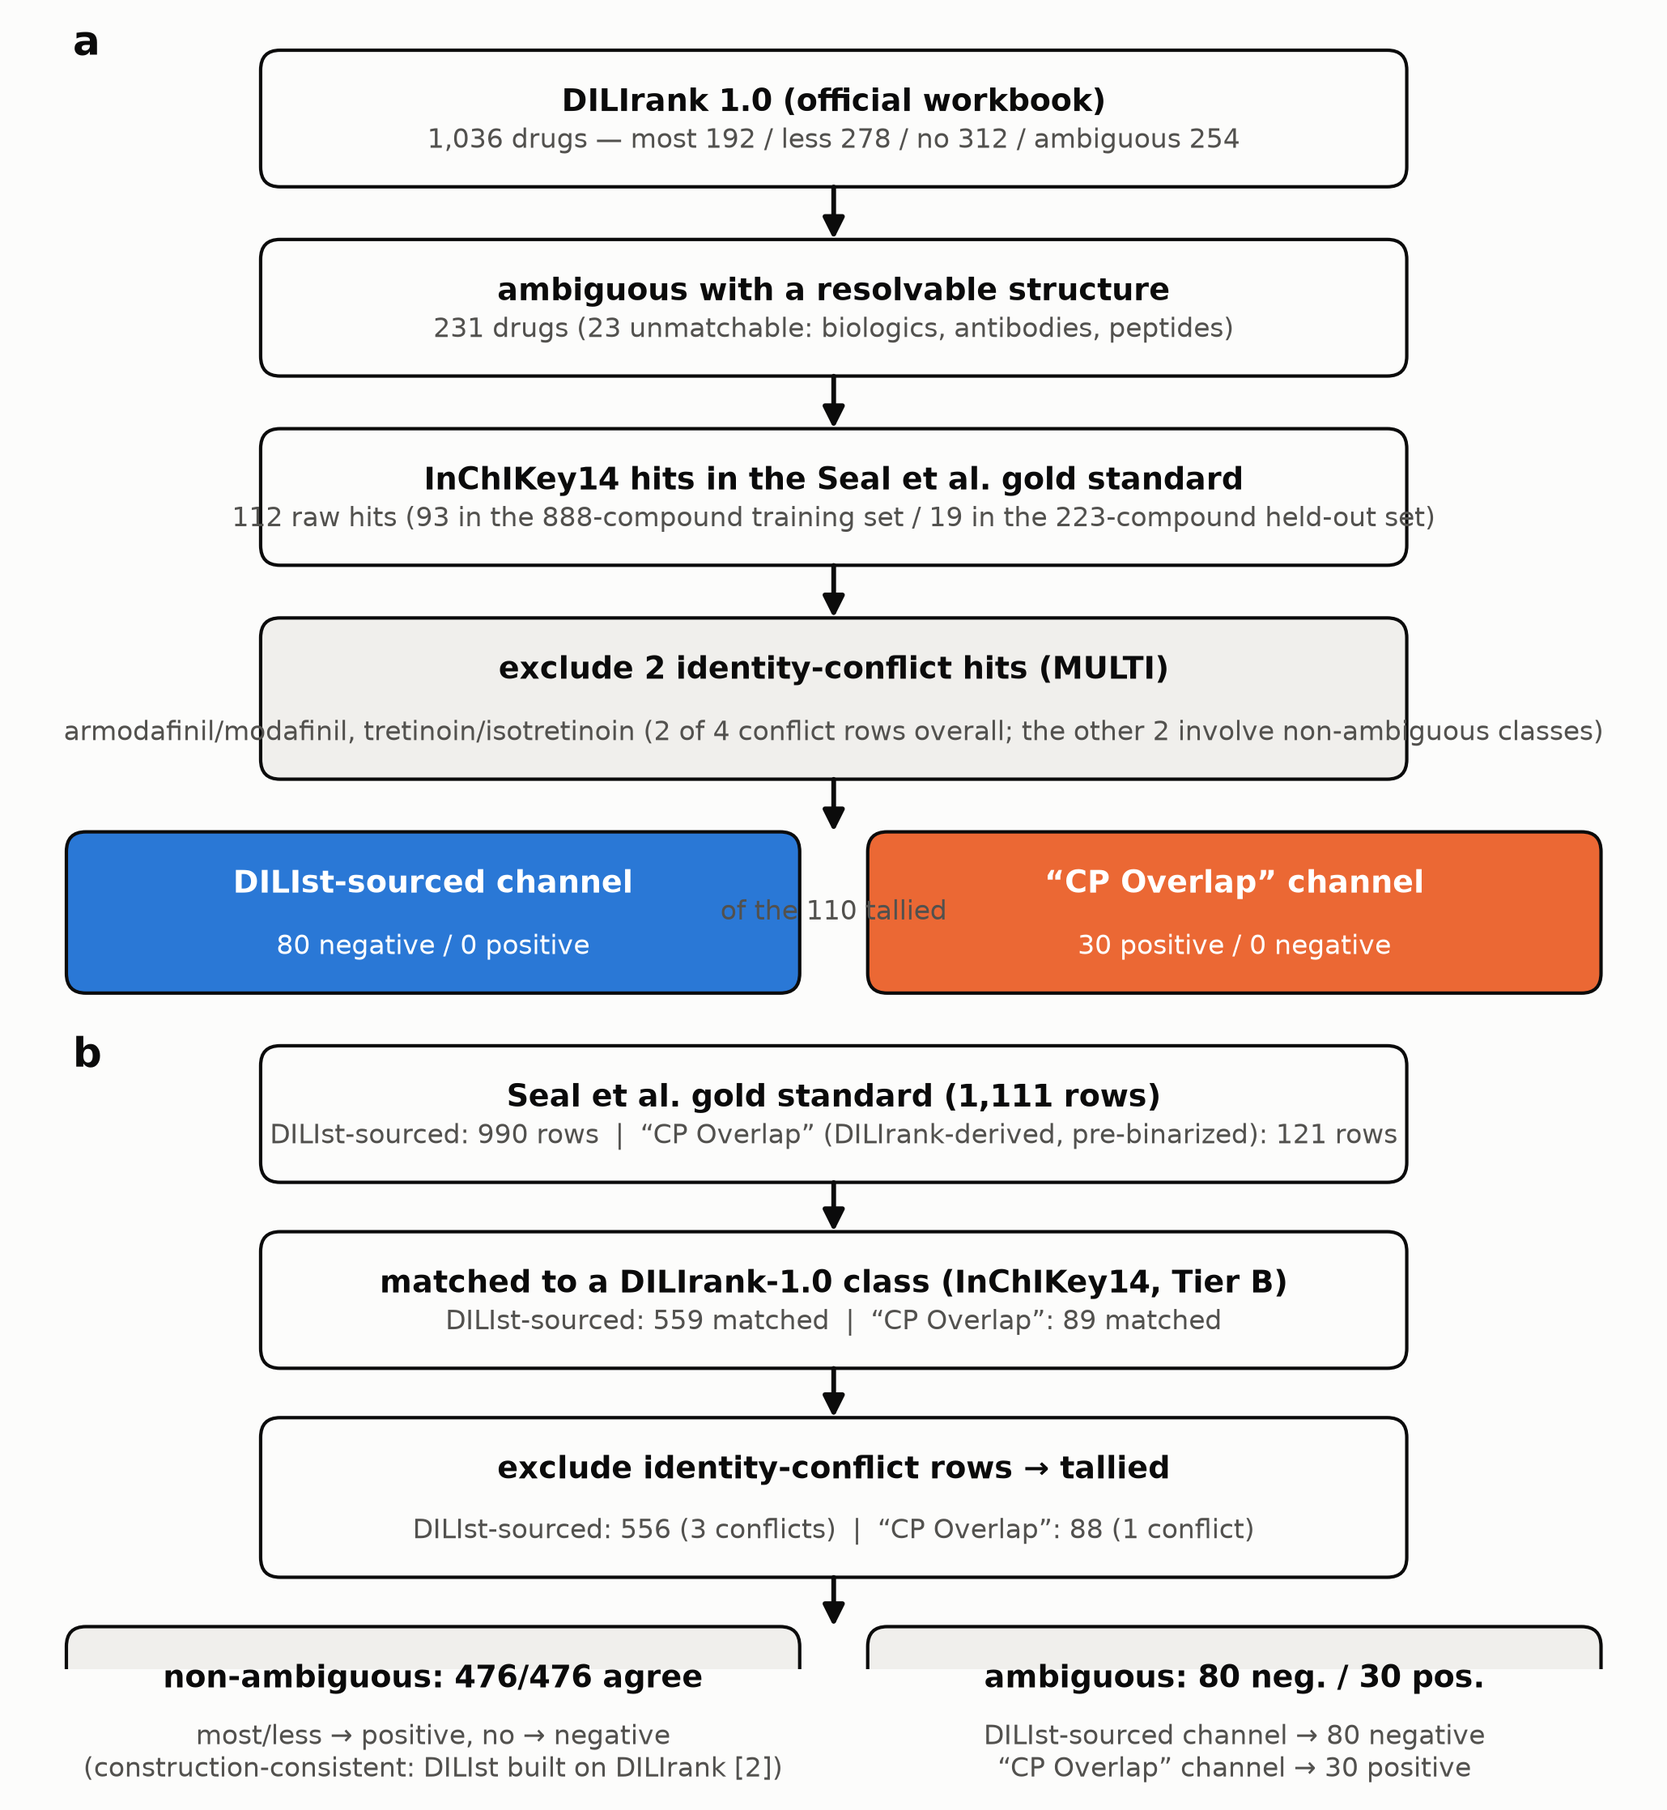
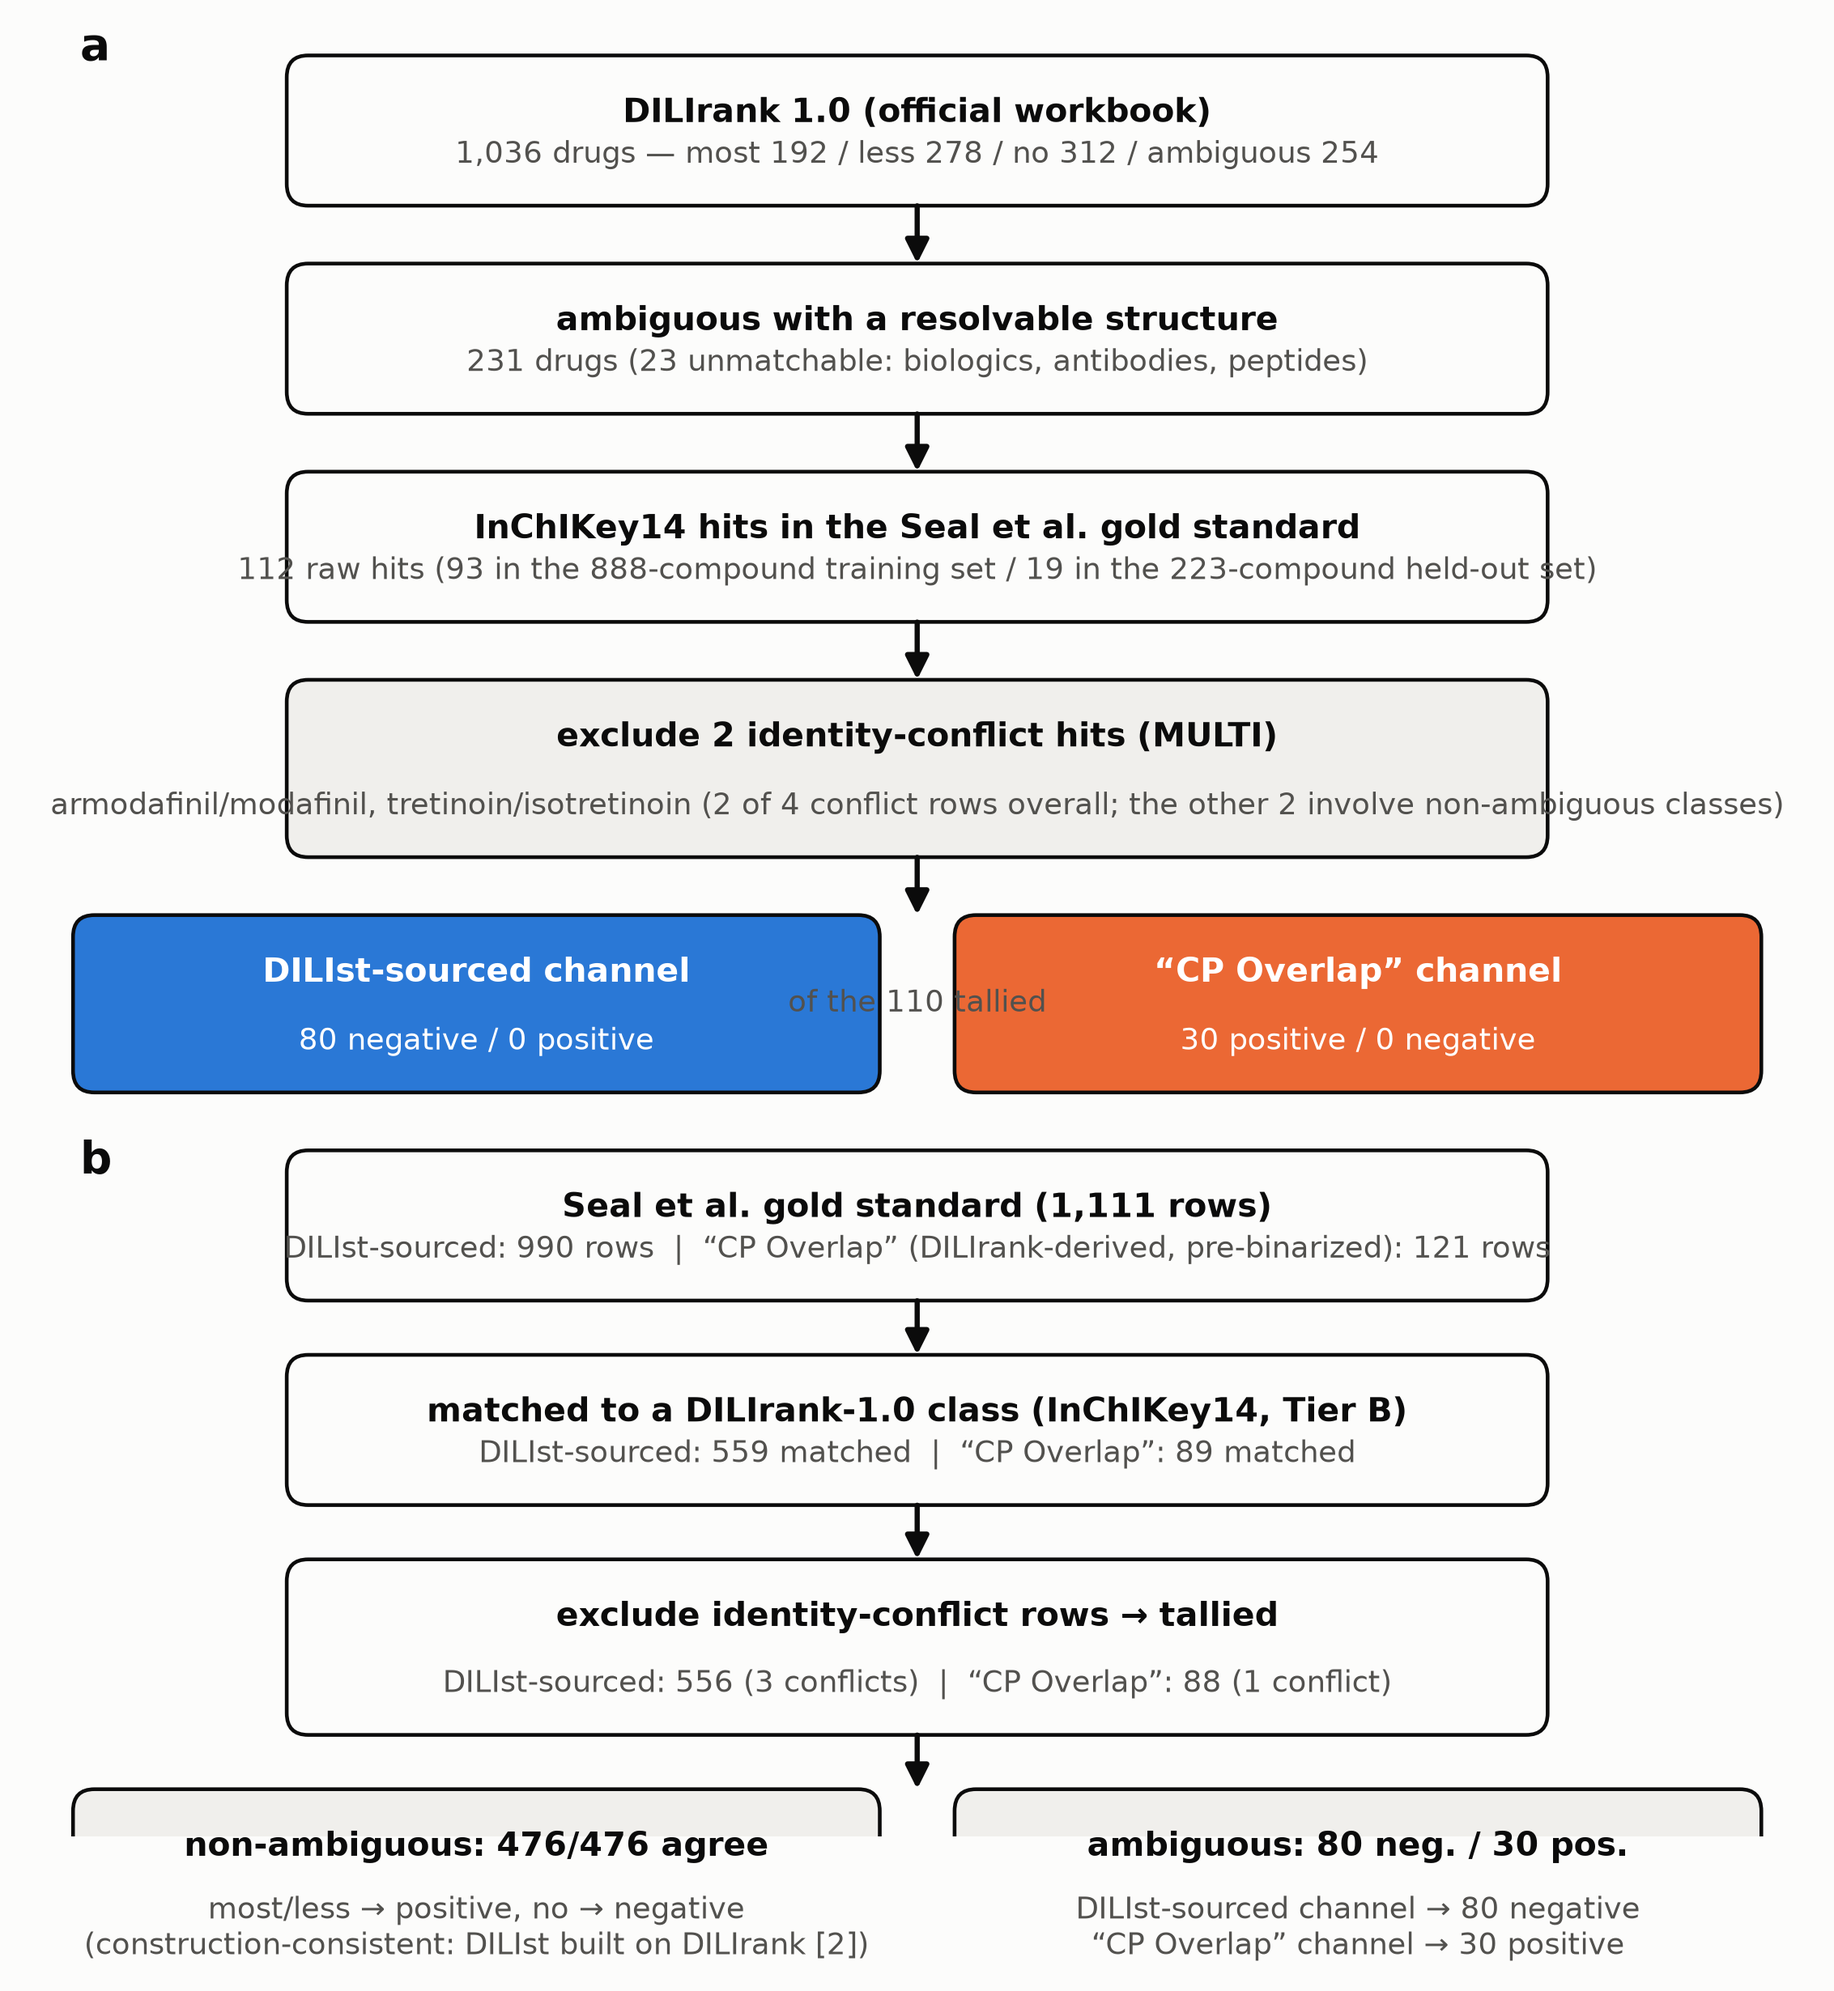
Guide compliance: 237-word abstract, keywords, journal-style GenAI declaration section, standard COI/funding sentences, corresponding-author line, 330-dpi figures (2265px), highlights and declarations files, checklist compliance section

diff --git a/repro/make_figures.py b/repro/make_figures.py
@@ -112,7 +112,7 @@ ax.text(0.05, -0.045, "n = 49 reclassified drugs. Zero defined-class downgrades.
         ha="left", va="center", fontsize=8, color=MUT, transform=ax.transAxes)
 
 fig.savefig(os.path.join(OUT, "fig1_reclassification_directions.png"),
-            dpi=300, bbox_inches="tight", facecolor=SURF)
+            dpi=330, bbox_inches="tight", facecolor=SURF)
 plt.close(fig)
 
 # ----------------------------------------------------------------------
@@ -177,7 +177,7 @@ flow_box(0.525, -0.075, 0.445, 0.097, "ambiguous: 80 neg. / 30 pos.",
          fill=GRAY_FILL)
 
 fig.savefig(os.path.join(OUT, "fig2_cross_source_filtering.png"),
-            dpi=300, bbox_inches="tight", facecolor=SURF)
+            dpi=330, bbox_inches="tight", facecolor=SURF)
 plt.close(fig)
 
 # flatten to RGB for print compatibility (journals prefer non-alpha PNGs)

diff --git a/manuscript/DILI_LABEL_STABILITY_DATA_NOTE_v1.0.md b/manuscript/DILI_LABEL_STABILITY_DATA_NOTE_v1.0.md
@@ -4,19 +4,21 @@ Yu Zhang
 
 Clinical Pharmacy Program, School of Pharmacy, Anhui Medical University, Hefei, Anhui, China
 
-Correspondence: mengyufanqiu@gmail.com
+Corresponding author: Yu Zhang, mengyufanqiu@gmail.com
 
 
 ## Abstract
 
-**Background.** Machine-learning models for drug-induced liver injury (DILI) are trained and benchmarked against reference labels compiled from heterogeneous sources whose evidence rules differ and which are periodically revised. If reference labels are unstable, the target a model is asked to predict — and the meaning of its reported performance — can drift without any change to the model itself. This instability is rarely quantified before training.
+**Background.** Machine-learning models for drug-induced liver injury (DILI) are trained and benchmarked against reference labels compiled from heterogeneous, periodically revised sources. If labels drift, the meaning of reported performance drifts with them; this instability is rarely quantified.
 
-**Methods.** We aligned the two U.S. FDA releases of DILIrank (1.0, n = 1,036; 2.0, n = 1,336) by LTKB identifier, cross-matched the result against the 1,111-compound gold standard of Seal et al. (2024) by PubChem InChIKey, and recomputed all cross-source statistics under three matching tiers (strict full-InChIKey; full + InChIKey14; identity conflicts excluded). The full official FDA DILIst dataset (1,279 drugs) was additionally matched against DILIrank 1.0. No new predictive model was developed; previously reproduced held-out predictions and cross-validation-derived scores for the 23 reclassified training-set compounds were analyzed descriptively under the original pipeline's convention (disclosed; Supplementary Information, Tables S1–S2).
+**Methods.** We aligned the two FDA releases of DILIrank (1.0, n = 1,036; 2.0, n = 1,336) by LTKB identifier, cross-matched them against the Seal et al. (2024) benchmark by PubChem InChIKey under three matching tiers, and matched the full official DILIst dataset (1,279 drugs) against DILIrank 1.0. No new predictive model was developed.
 
-**Results.** Between versions, 0 drugs were removed and 300 were added; 49 were reclassified. All 49 reclassifications ended in a defined concern category; among transitions between defined concern categories, 18 were escalations (no → less) and none were downgrades. The remaining 31 transitions resolved the ambiguous category to a defined concern category (27 to less, 4 to most). In the benchmark, among 559 DILIst-sourced compounds with a DILIrank-1.0 class, the non-ambiguous classes agree with DILIst (476/476) — an agreement that is partly definitional, because DILIst was constructed on top of DILIrank with a stated most/less→positive, no→negative rule [2], and we therefore treat it as a consistency check of that rule rather than independent corroboration. Among the matched ambiguous compounds: in the matched ambiguous subset of the benchmark, 80 DILIrank-1.0-ambiguous drugs carry a negative label in the DILIst-sourced channel and 30 a positive label in the pre-binarized, DILIrank-derived "CP Overlap" channel; the same directional split holds under strict full-InChIKey matching (44 negative / 17 positive). In the full official DILIst dataset, 836 drugs match DILIrank 1.0 at the structure level: the non-ambiguous classes agree in 707/708 cases under strict full-InChIKey matching and 713/714 in the main analysis; the single non-agreeing case in both tiers is the norgestrel row, which reflects a DILIst-internal label split between a racemate and its enantiomer (norgestrel positive vs levonorgestrel negative — DILIrank and DILIst agree on levonorgestrel itself) rather than a same-structure cross-source conflict; excluding this identified entity-normalization anomaly, the same-entity agreement is 707/707 and 713/713. The matched ambiguous drugs carry 120 negative and 2 positive DILIst labels (norethindrone; zopiclone — skeleton-level only, not claimed as confirmed same-drug), 121 and 1 positive under strict matching; the two tiers are reported separately rather than merged. Two compounds (armodafinil, tretinoin) appear as positive DILIst-sourced rows in the benchmark but are absent from the official DILIst dataset, a source-provenance discrepancy whose cause is not attributed. Of the 49 reclassified drugs, 28 fall inside the Seal gold standard (23 train / 5 held-out); the 5 held-out drugs all carry a "less" label in version 2.0, and their reproduced DILIPredictor probabilities straddle the published Youden threshold (0.6386): 2 predicted positive, 3 negative, and all five lie within 0.22 of equiprobability.
+**Results.** Between versions, 0 drugs were removed and 300 were added; all 49 reclassifications ended in defined concern categories (18 escalations, 31 resolutions of classification uncertainty, no downgrades). In the benchmark, all 110 tallied ambiguous compounds carry binary labels: 80 negative in the DILIst-sourced channel and 30 positive in the pre-binarized DILIrank-derived subset, two disjoint drug sets (44/17 under strict matching). In the full DILIst dataset, the ambiguous class is negative in 120 of 122 matched cases, with two exceptions; two benchmark rows (armodafinil, tretinoin) have no counterpart in the official dataset.
 
-**Conclusions.** DILI reference-label instability is concentrated in the ambiguous class and is directional: the 1.0→2.0 update moved drugs only into defined concern categories, and the ambiguous class is labeled negative in the full DILIst dataset (120/122) yet carries binary labels of opposite direction across the benchmark's two disjoint channels. These are descriptive properties of the shipped data, not claims about label correctness. Benchmarks should treat the ambiguous class explicitly and record per-drug label provenance.
+**Conclusions.** Reference-label instability is concentrated in the ambiguous class and is directional: the update moved drugs only into defined categories, and the ambiguous class carries opposite binary labels across the benchmark's two channels while being overwhelmingly negative in DILIst. Benchmarks should treat the ambiguous class explicitly and record per-drug label provenance.
 
+**Keywords.** drug-induced liver injury; benchmark; label provenance; DILIrank; DILIst; ambiguous; data curation
+and is directional: the update moved drugs only into defined categories, and the ambiguous class carries opposite binary labels across the benchmark's two channels while being overwhelmingly negative in DILIst. Benchmarks should treat the ambiguous class explicitly and record per-drug label provenance.
 ---
 
 ## 1. Introduction
@@ -42,8 +44,6 @@ Here we do not build a new database or a new predictor. We audit the labels them
 **Match tiers (sensitivity analysis).** Matching between DILIrank and Seal was graded into four quality classes: **full-InChIKey match** (identical 27-character InChIKey), **InChIKey14-only** (skeleton match, stereo differs — Seal stores `-UHFFFAOYSA-` for many entries), **identity-conflict** (the same InChIKey14 maps to more than one DILIrank drug of different classes), and **unmatchable** (no structure). Because Seal's stored keys frequently omit stereo, skeleton matching can merge distinct stereoisomers; to bound this risk we recompute all cross-source statistics under three tiers: **Tier A**, full-InChIKey matches only; **Tier B**, Tier A plus InChIKey14-only matches (main analysis); and **Tier C**, Tier B with identity-conflict rows excluded. Exact InChIKey matches were preferred when assigning matches in Tiers A and B. Separately, Tier C excluded any row whose InChIKey14 mapped to multiple DILIrank entries with different classes, including cases in which an exact-key match was available. This additional conflict screen excludes the amphetamine row responsible for the single Tier-A non-ambiguous discordance (Table 4).
 
 **Predictions.** No new predictive model was developed. Previously reproduced held-out predictions (the 223-compound probability vector of the Seal et al. FeatureNet model, verified against the authors' published predictions to floating-point precision in earlier work; see Data availability) and cross-validation-derived scores for the 23 reclassified training-set compounds were analyzed descriptively. The scores use the original pipeline's own cross-validation convention — the 4-fold cross_val_predict of the selected final model that the authors themselves use for threshold selection; model selection used all 888 training labels, as in the original pipeline, and this convention is disclosed, not presented as leakage-free nested cross-validation estimates (Table S2). The Youden threshold (0.6386) is the published value reported by Seal et al. [6]; it was not refitted on the held-out set for this work.
-
-**Generative AI use.** Generative AI tools were used during the preparation of this work: ChatGPT (OpenAI) assisted research positioning, literature discussion, and iterative manuscript review and revision; Claude (Anthropic) assisted drafting and revising manuscript text, language editing, and the generation and debugging of the reproduction and analysis scripts (`repro/generate_analysis.py`, `repro/full_dilist_comparison.py`, `repro/make_figures.py`, and the document converter). The study design and analytical decisions were refined through iterative review of successive drafts. The author verified every reported finding against the source data and analysis outputs and takes responsibility for the final manuscript.
 
 ## 3. Results
 
@@ -130,11 +130,21 @@ i-DILI [4] harmonizes seven sources into one binary label with a confidence scor
 
 ## Declarations
 
-Declarations of interest: none. Funding: none. This study used only public datasets and previously published data; no ethical approval was required.
+The author declares that he has no known competing financial interests or personal relationships that could have appeared to influence the work reported in this paper.
+
+This research did not receive any specific grant from funding agencies in the public, commercial, or not-for-profit sectors.
+
+This study used only public datasets and previously published data; no ethical approval was required.
 
 ## Data availability
 
 The full per-drug match table (Tier B; all matched drugs with class, channel, toxicity, match tier, and conflict flag), the 49-row reclassification table, the sensitivity summary, the full-DILIst per-drug match table and agreement matrices, the PubChem lookup records for the 455 additional DILIst names (including salt-stripped variants and no-hit names), and an input manifest (paths, sizes, sha256, sources) are generated by `repro/generate_analysis.py` and `repro/full_dilist_comparison.py` (Python 3.10, pandas) from the raw inputs listed in the manifest, and are provided in `repro_outputs/`. The per-drug alignment table for the 49 reclassified drugs is provided as `data/D2_label_stability_alignment.csv` in the repository. A versioned public repository is available at https://github.com/mengyufanqiu-maker/-dili-label-provenance-audit. DILIrank versions and the DILIst dataset are the official FDA workbooks (FDA DILIrank 2.0 and DILIst dataset pages); the Seal et al. gold standard and split files are from the authors' public repository [6]; the held-out probability vector and the 0.6386 Youden threshold come from our earlier reproduction of the Seal et al. pipeline, verified against the authors' published predictions. Tables S1–S3 are in the Supplementary Information.
+
+
+
+## Declaration of generative AI and AI-assisted technologies in the writing process
+
+During the preparation of this work the author used ChatGPT (OpenAI) for research positioning, literature discussion, and iterative manuscript review and revision, and Claude (Anthropic) for drafting and revising the manuscript text, language editing, and the generation and debugging of the reproduction and analysis scripts. After using these tools, the author reviewed and edited the content as needed and takes full responsibility for the content of the published article.
 
 ## References
 
